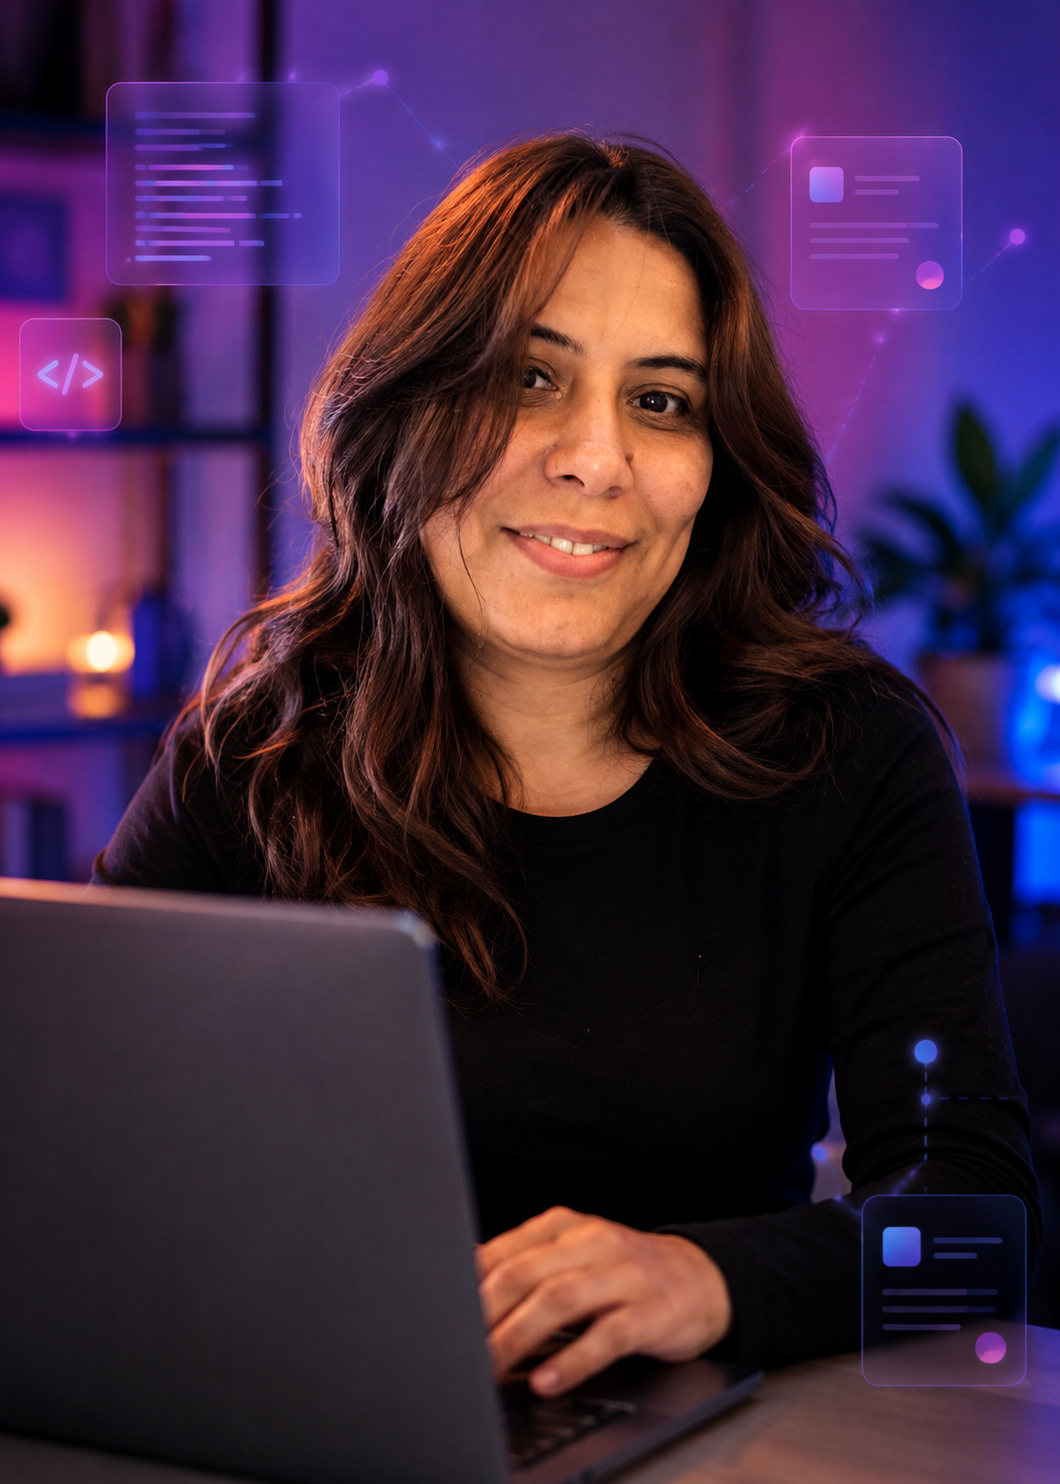
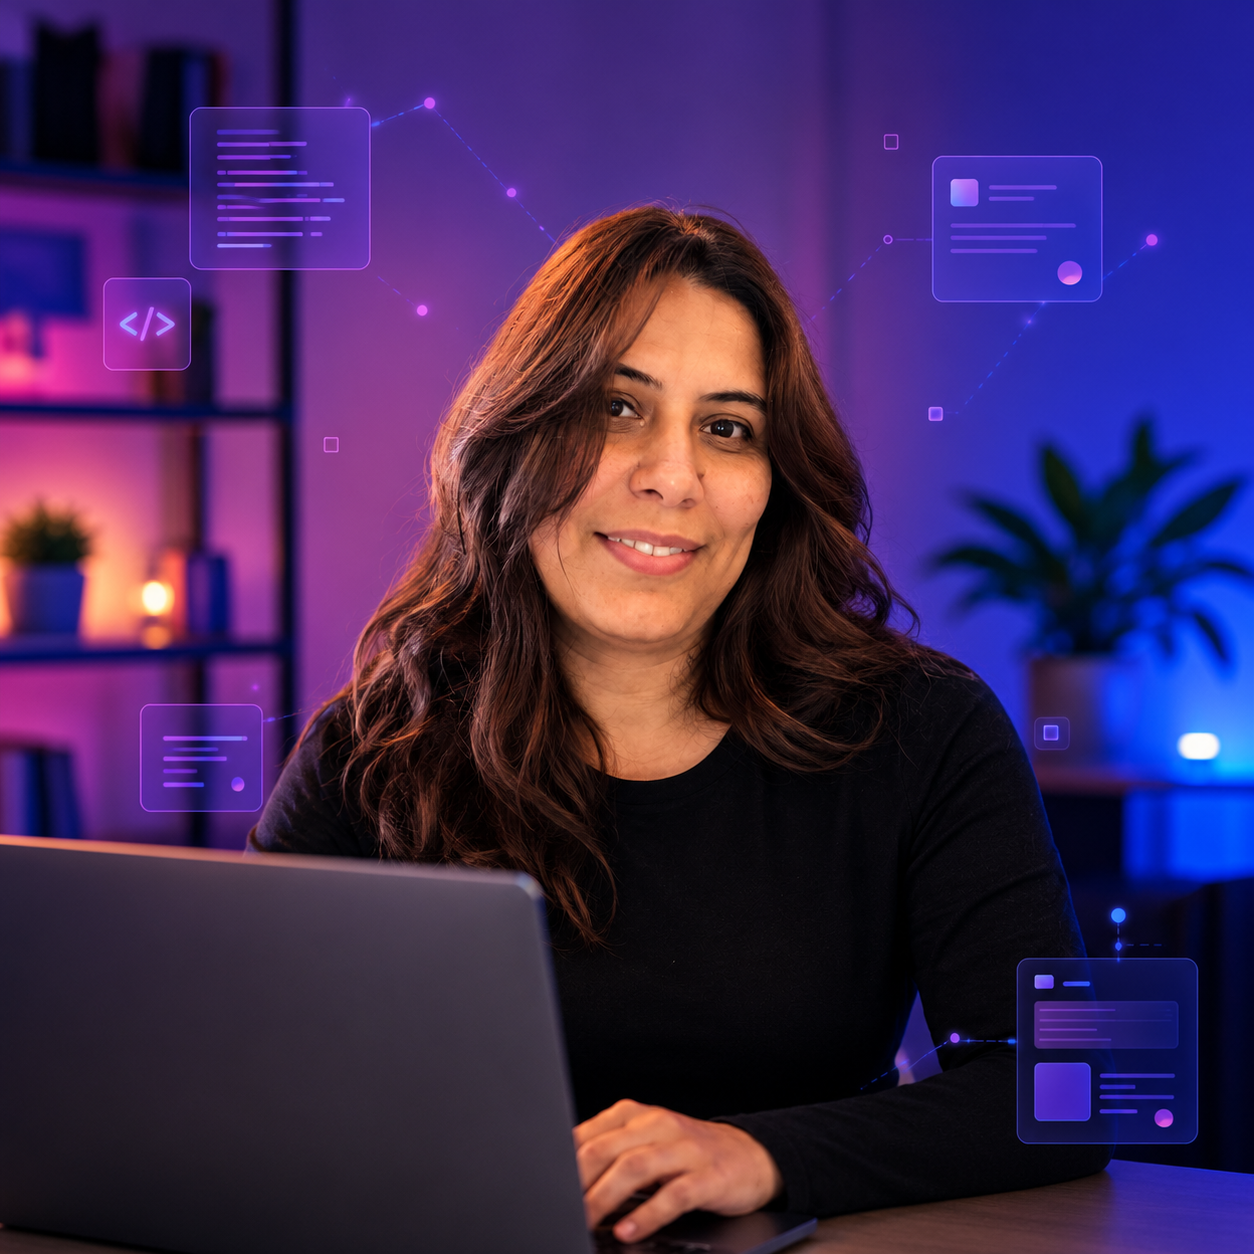
fix: actualiza foto y corrige texto del perfil

diff --git a/judith.html b/judith.html
@@ -54,7 +54,7 @@
                         <!-- Datos obligatorios por consigna: Ciudad y Edad -->
                         <div style="display: flex; gap: 20px; flex-wrap: wrap; margin-bottom: 16px;">
                             <p><strong><i class="fa-solid fa-location-dot text-accent"></i> Ciudad:</strong> Buenos Aires, Argentina</p>
-                            <p><strong><i class="fa-solid fa-cake-candles text-accent"></i> Cumpleaños:</strong> 29 de noviembre (<span id="judith-edad">calculando edad...</span>)</p>
+                            <p><strong><i class="fa-solid fa-cake-candles text-accent"></i> Cumpleaños:</strong> 29 de noviembre</p>
                         </div>
 
                         <p style="margin-bottom: 24px;">
